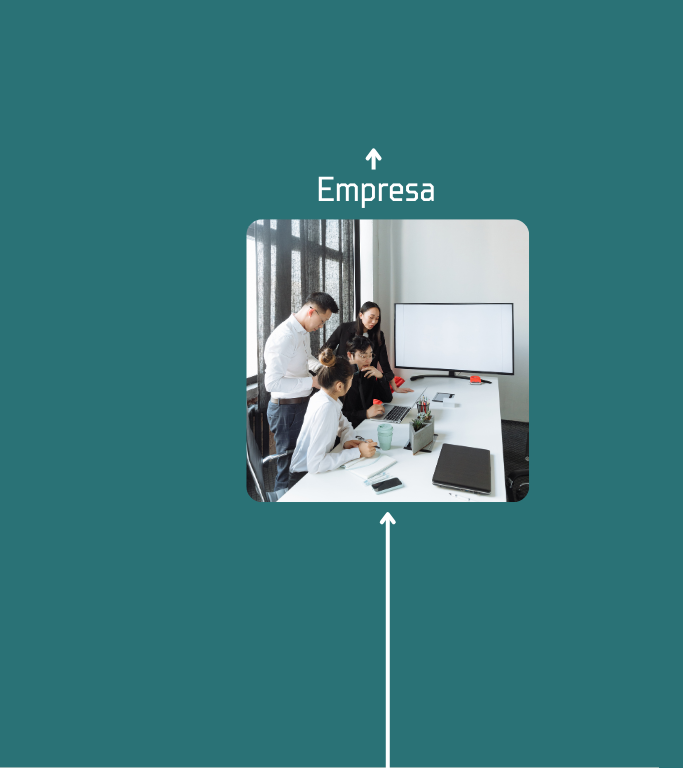
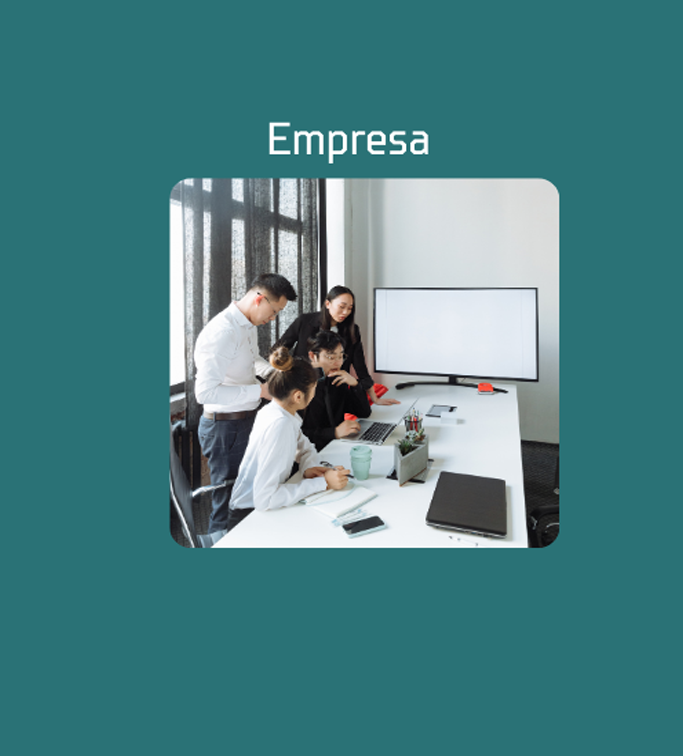
Ajuste login empresa

Changed region(s): [[0.246, 0.1521, 0.8302, 1.0]]

diff --git a/Styles/Login Empresa.css b/Styles/Login Empresa.css
@@ -5,7 +5,7 @@
 
 body {
     margin: 0;
-    font-family: 'Black Mustang', sans-serif;
+    font-family: 'fonte 3';
 }
 body{
     background-color: #FEF0E6;
@@ -26,6 +26,7 @@ body{
     align-items: center;
     justify-content: center;
     padding: 20px;
+
 }
 
 .login-form h2 {
@@ -40,30 +41,33 @@ body{
     padding: 10px;
     margin-bottom: 20px;
     width: 100%;
-    max-width: 300px;
+    max-width: 270px;
     border: none;
     border-radius: 5px;
+ 
 }
 
 .login-form button[type="submit"] {
     background: #007377;
     color: #FEF0E6;
-    padding: 10px 20px;
+    padding: 15px 20px;
     border: none;
     border-radius: 5px;
     cursor: pointer;
 }
 
+
+
 .login-form button[type="button"] {
-    background: none;
+    padding: 1px 15px;
     border: none;
+    border-radius: 5px;
     cursor: pointer;
+    background: #007377;
+
 }
 
-.login-form button[type="button"] img {
-    width: 100px;
-    height: auto;
-}
+
 
 .image {
     flex: 1;
@@ -76,4 +80,14 @@ body{
 .image img {
     max-width: 100%;
     height: auto;
+}
+
+.login-form button[type="submit"] {
+    margin-left: 250px; 
+}
+
+.p1 {
+    font-size: 1em;
+   
+    font-family:'fonte';
 }

diff --git a/Pages/Login Empresa.html b/Pages/Login Empresa.html
@@ -31,8 +31,8 @@
                 <label for="password">SENHA:</label>
                 <input type="password" id="password" name="password">
                 <button type="submit">Login</button>
-                <button type="button" onclick="location.href='cadastro_empresa.html'">
-                    <img src="../Imagens/Cadastro Empresa icone.png" alt="Cadastro Empresa">
+                <button class="p1" type="button" onclick="location.href='cadastro empresa.html'">
+                    <p>Cadastro</p>
                 </button>
             </form>
         </div>

diff --git a/Styles/Pagina Inicial.css b/Styles/Pagina Inicial.css
@@ -132,7 +132,7 @@ h1, h2 {
     font-family:'fonte';
 }
 
-p {
+.p {
     font-size: 1em;
     color: #007377;
     width: 80%;

diff --git a/Styles/Login Trabalhador.css b/Styles/Login Trabalhador.css
@@ -82,11 +82,7 @@ body {
 
 }
 
-.login-form button[type="button"] img {
-    width: 100px;
-    height: auto;
-    
-}
+
 
 
 
